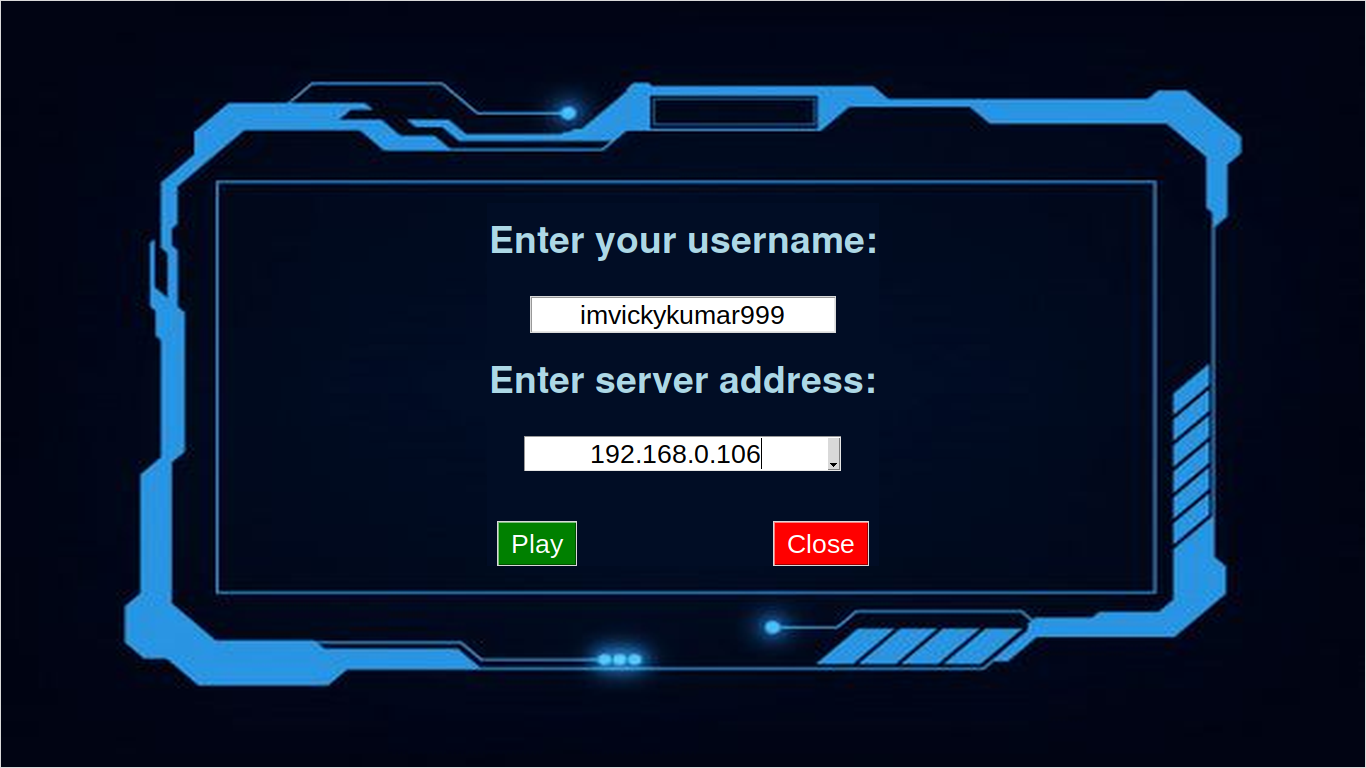
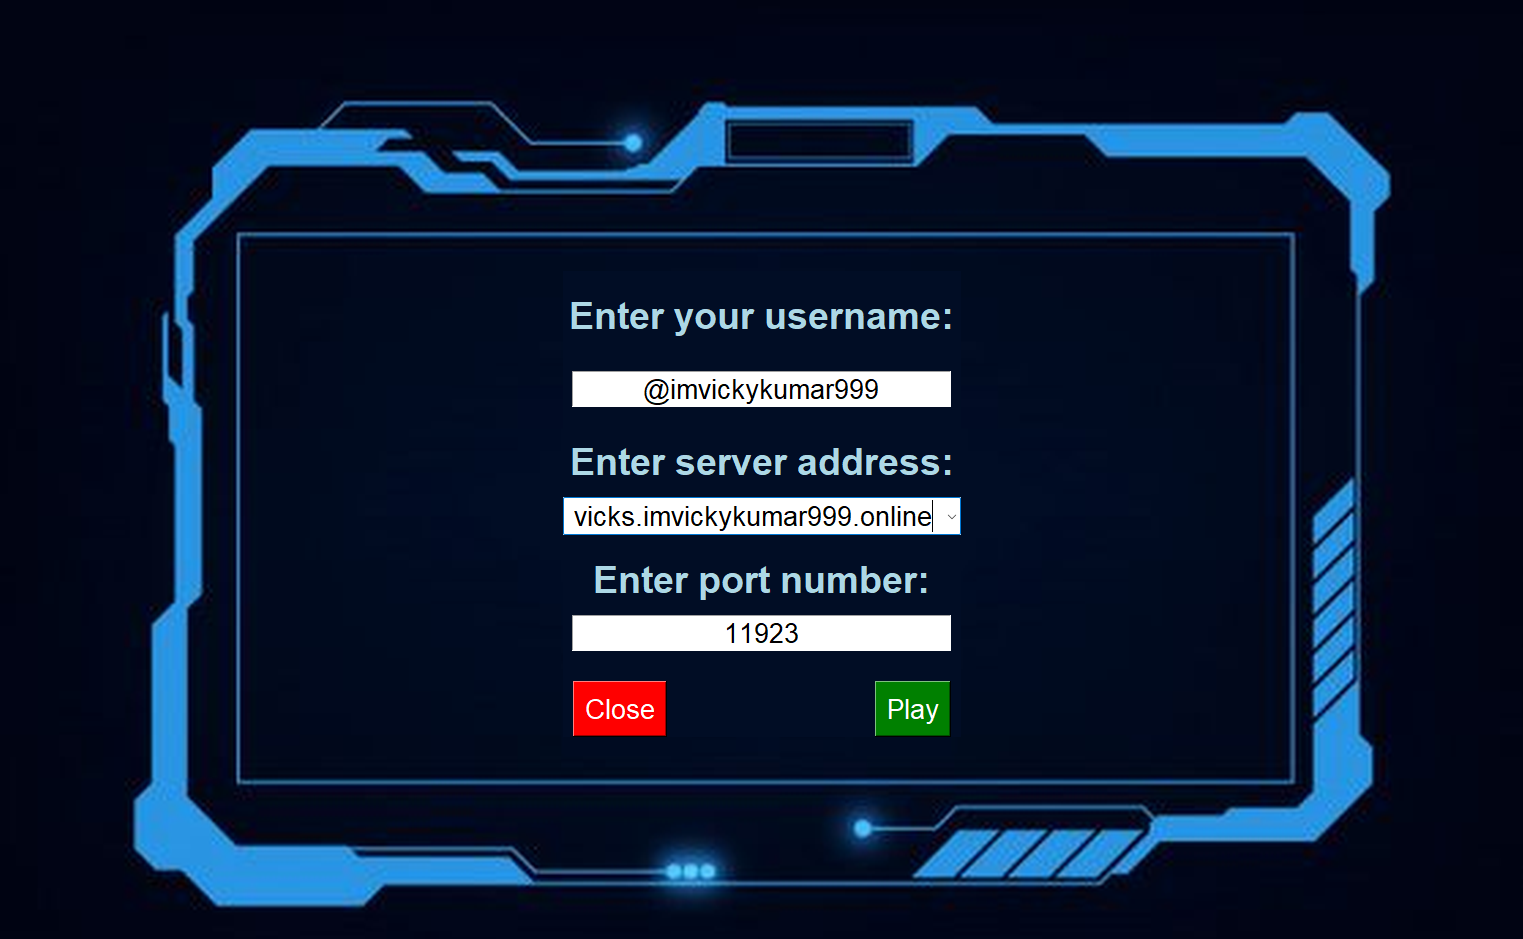
Updated GUI

Changed region(s): [[0.0615, 0.0938, 0.9224, 0.9688]]

diff --git a/game/client/main.py b/game/client/main.py
@@ -26,7 +26,9 @@ def get_connected_devices():
 
 def get_user_input():
     root = tk.Tk()
-    root.attributes('-fullscreen', True)
+    # root.attributes('-fullscreen', True)
+    root.geometry("800x600")  # You can start with a default size
+    root.resizable(True, True)  # Make the window resizable
 
     screen_width = root.winfo_screenwidth()
     screen_height = root.winfo_screenheight()
@@ -133,7 +135,10 @@ while True:
     if not error_occurred:
         break
 
-app = ursina.Ursina(fullscreen=True)
+app = ursina.Ursina(
+    # fullscreen=True
+)
+
 ursina.window.borderless = False
 ursina.window.title = "Ursina FPS"
 ursina.window.exit_button.visible = False
